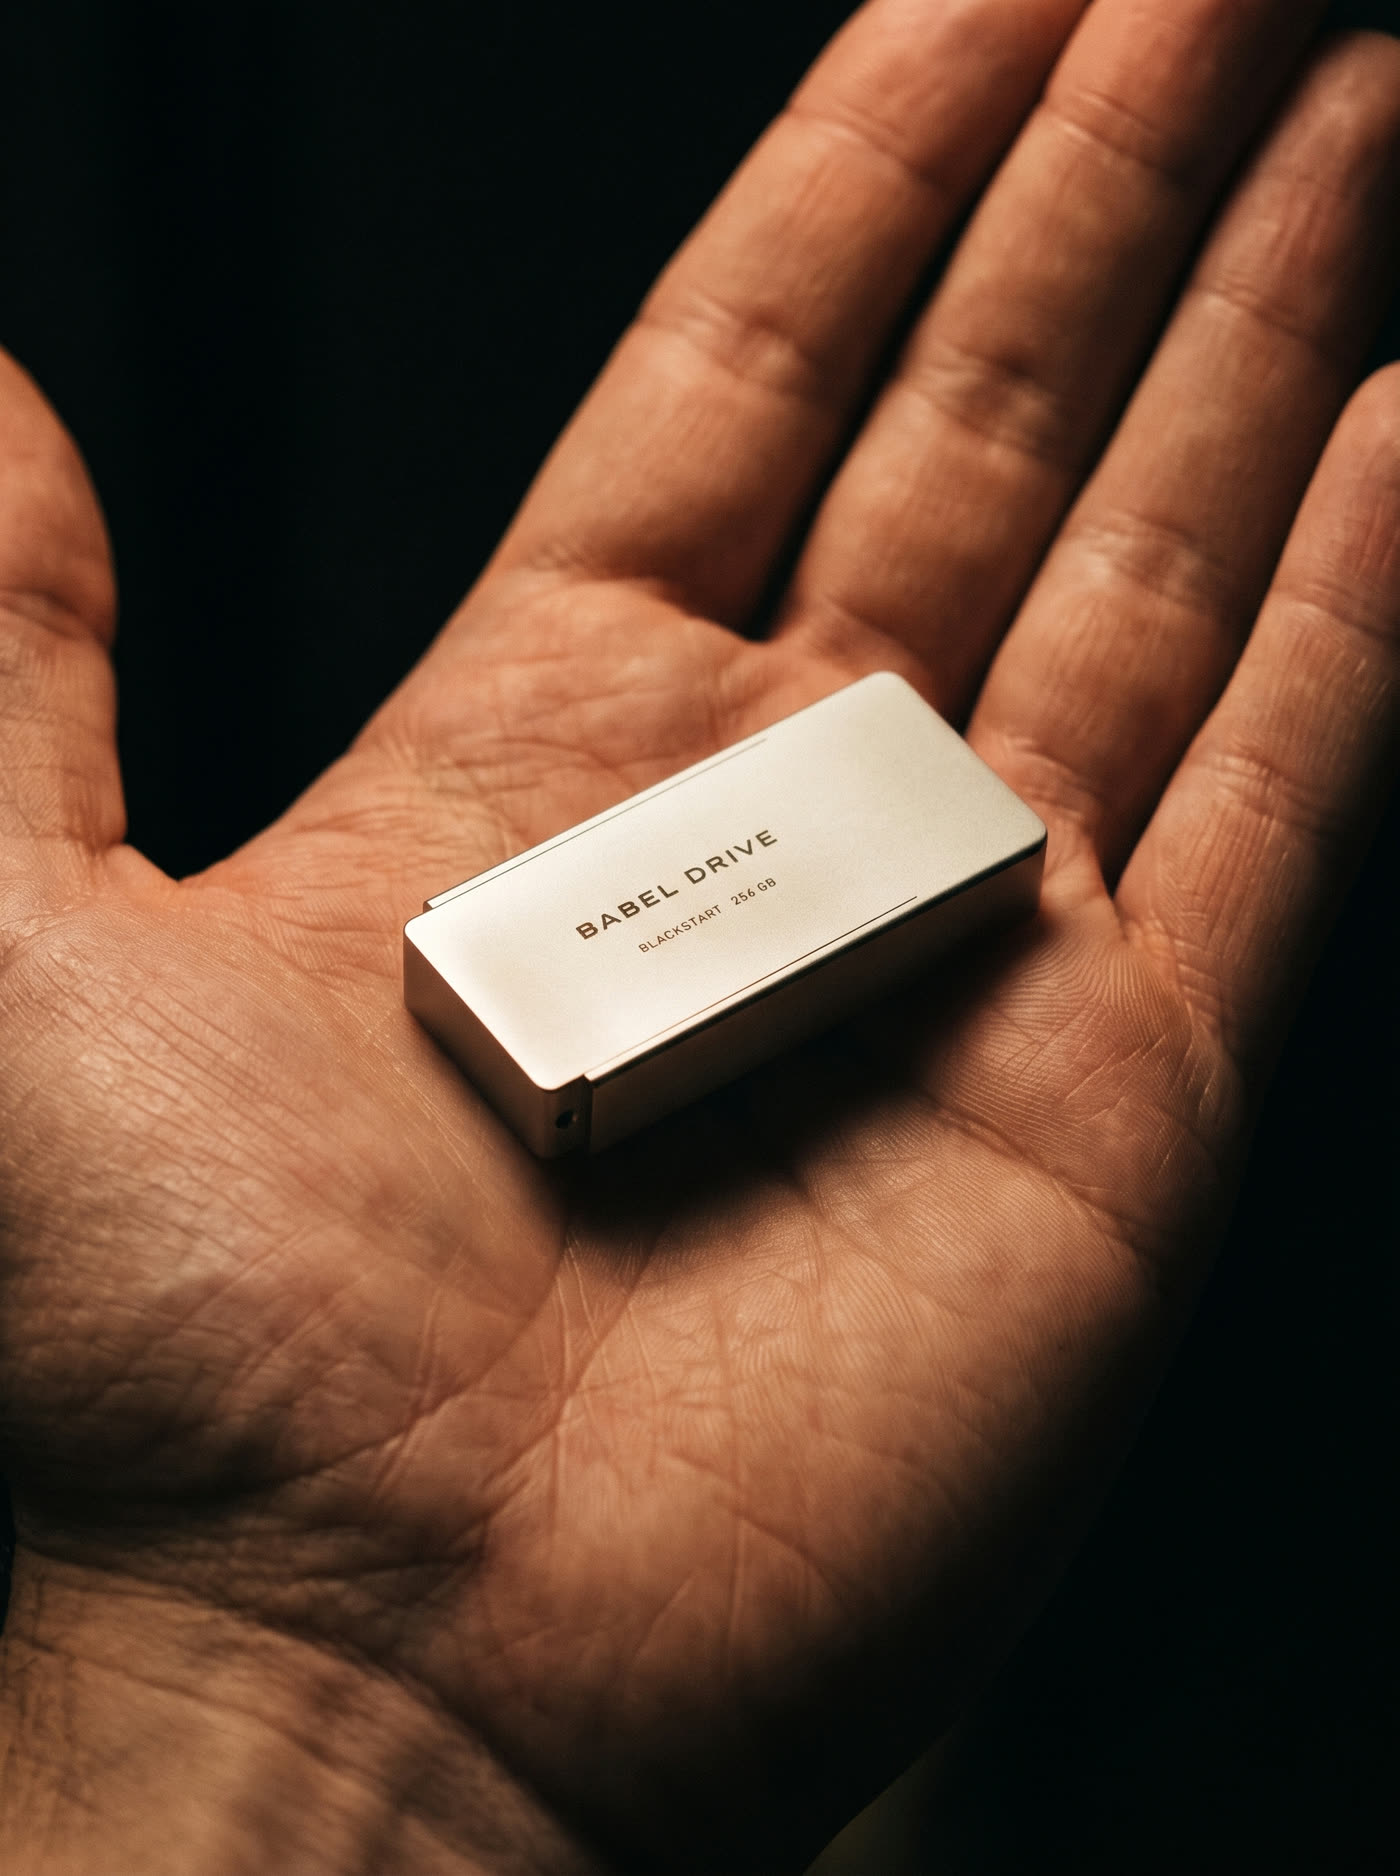
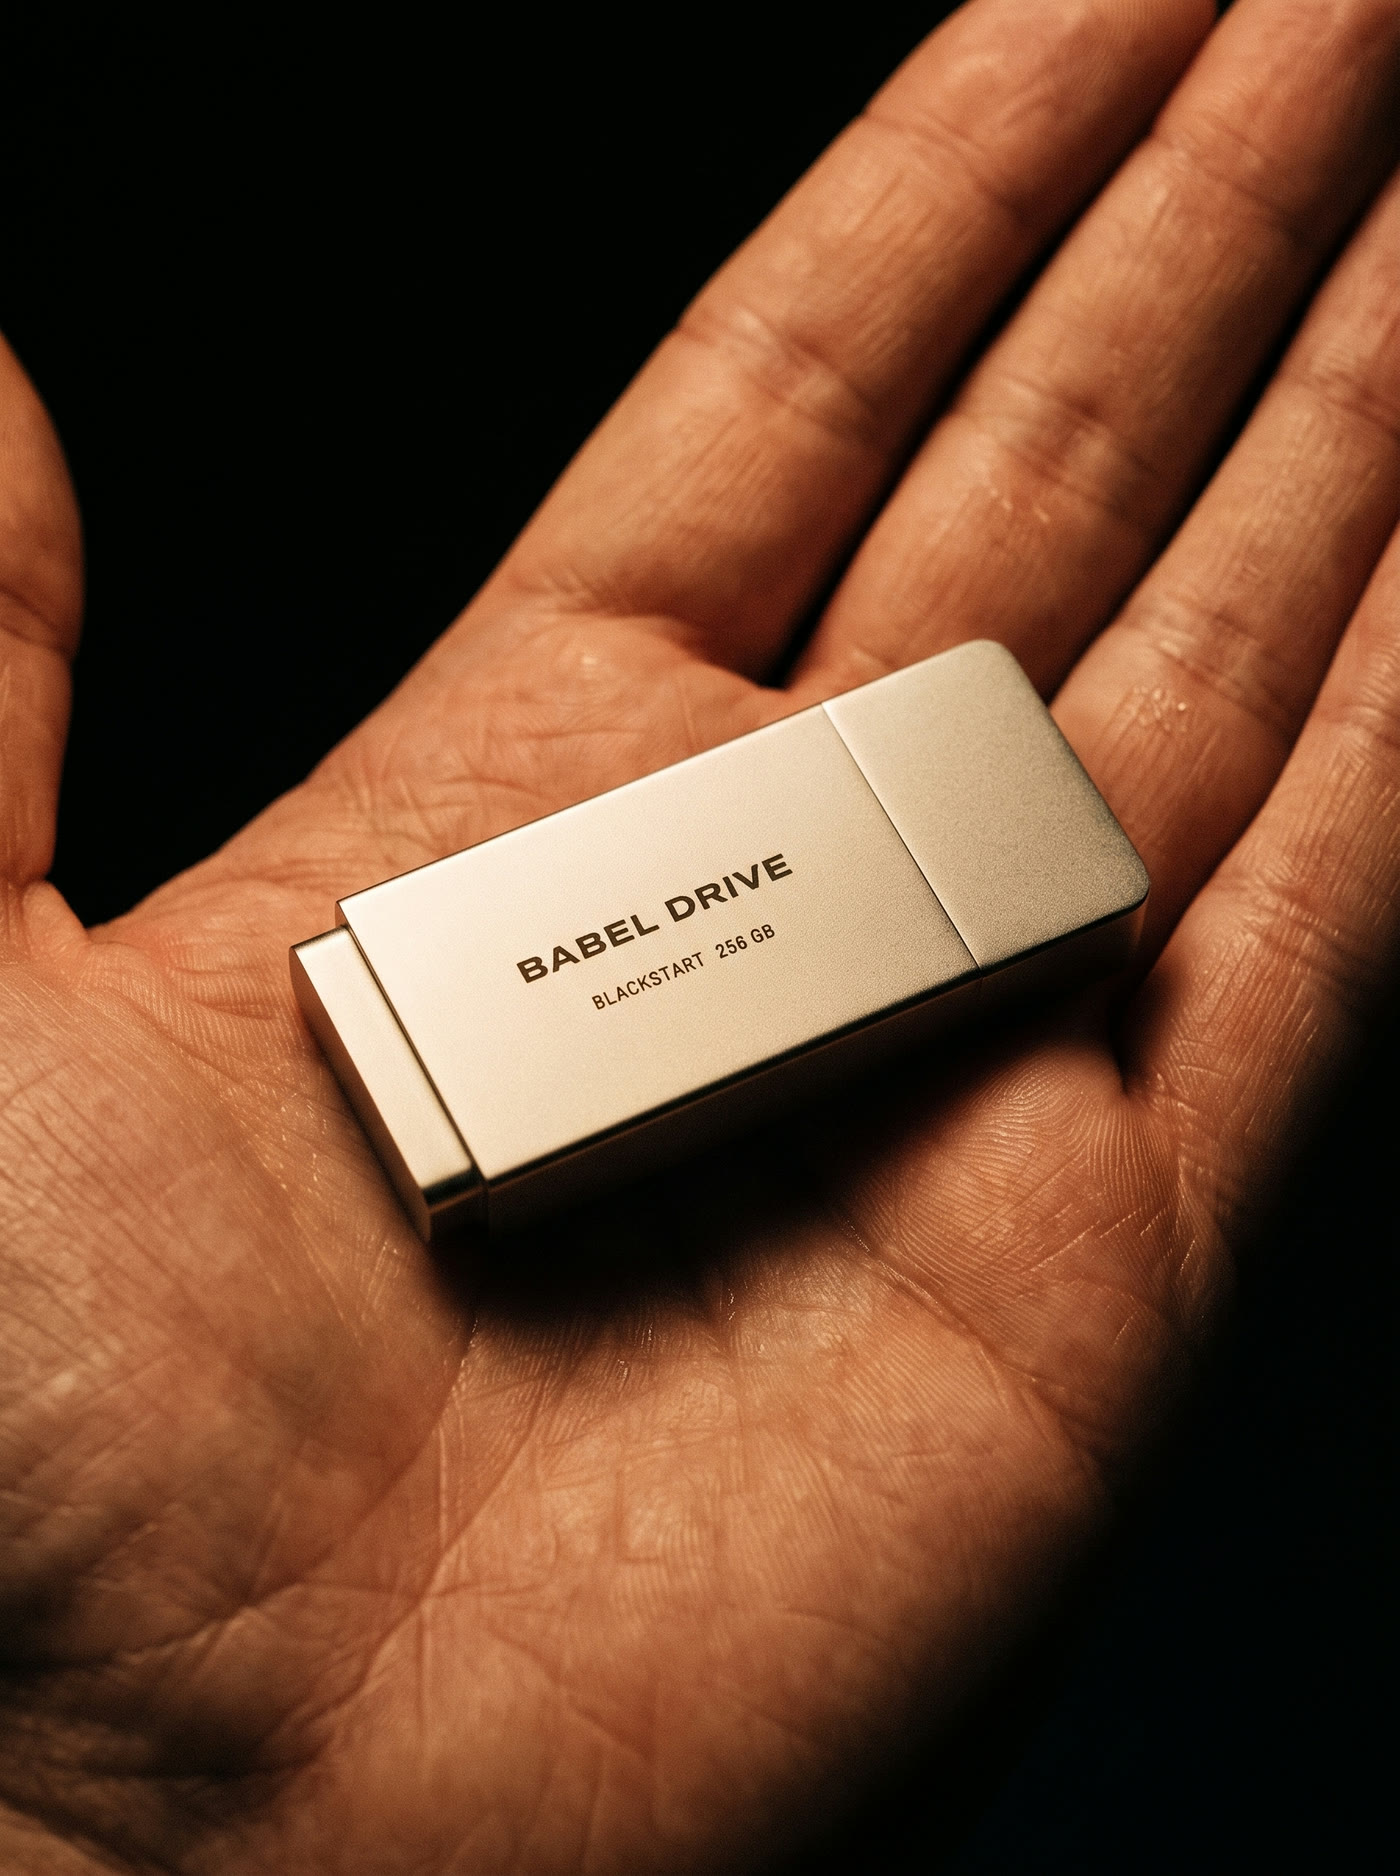
Deploy 2026-11-14 16:37

diff --git a/index.html b/index.html
@@ -611,11 +611,11 @@ footer .wrap{display:flex;flex-wrap:wrap;justify-content:space-between;gap:12px 
       <div class="reel-nav"><button type="button" id="rprev" aria-label="Previous photo"><svg width="16" height="16" viewBox="0 0 16 16" fill="none" stroke="currentColor" stroke-width="1.6"><path d="M10 3L5 8l5 5"/></svg></button><button type="button" id="rnext" aria-label="Next photo"><svg width="16" height="16" viewBox="0 0 16 16" fill="none" stroke="currentColor" stroke-width="1.6"><path d="M6 3l5 5-5 5"/></svg></button></div>
     </div>
     <div class="track" id="track" tabindex="0" aria-label="Photos of Blackstart, scroll sideways">
-      <figure class="card"><div class="ph"><img src="img/p/palm-900.jpg" srcset="img/p/palm-900.jpg 900w, img/p/palm-1400.jpg 1400w" sizes="(max-width: 699px) 78vw, 430px" width="1400" height="1875" decoding="async" alt="Blackstart resting in an open palm, about a third of the palm wide" draggable="false"></div><figcaption><b>44.7 × 20.4 × 9 mm, 55 g</b><span>01 / 05</span></figcaption></figure>
-      <figure class="card"><div class="ph"><img src="img/p/hold-900.jpg" srcset="img/p/hold-900.jpg 900w, img/p/hold-1400.jpg 1400w" sizes="(max-width: 699px) 78vw, 430px" width="1400" height="1875" decoding="async" alt="Blackstart held between thumb and finger against black" draggable="false"></div><figcaption><b>Solid 316L stainless</b><span>02 / 05</span></figcaption></figure>
-      <figure class="card"><div class="ph"><img src="img/p/lamp-900.jpg" srcset="img/p/lamp-900.jpg 900w, img/p/lamp-1400.jpg 1400w" sizes="(max-width: 699px) 78vw, 430px" width="1400" height="1875" loading="lazy" decoding="async" alt="Blackstart on a walnut desk under a warm lamp" draggable="false"></div><figcaption><b>Laser-marked cap</b><span>03 / 05</span></figcaption></figure>
-      <figure class="card"><div class="ph"><img src="img/p/cabin-900.jpg" srcset="img/p/cabin-900.jpg 900w, img/p/cabin-1400.jpg 1400w" sizes="(max-width: 699px) 78vw, 430px" width="1400" height="1875" loading="lazy" decoding="async" alt="Blackstart on a cabin windowsill with snow outside" draggable="false"></div><figcaption><b>One-piece cap and clip</b><span>04 / 05</span></figcaption></figure>
-      <figure class="card"><div class="ph"><img src="img/p/book-900.jpg" srcset="img/p/book-900.jpg 900w, img/p/book-1400.jpg 1400w" sizes="(max-width: 699px) 78vw, 430px" width="1400" height="1875" loading="lazy" decoding="async" alt="Blackstart on a desk beside a cloth-bound book" draggable="false"></div><figcaption><b>Bead-blasted finish</b><span>05 / 05</span></figcaption></figure>
+      <figure class="card"><div class="ph"><img src="img/p/palm-900.jpg?v=2" srcset="img/p/palm-900.jpg?v=2 900w, img/p/palm-1400.jpg?v=2 1400w" sizes="(max-width: 699px) 78vw, 430px" width="1400" height="1875" decoding="async" alt="Blackstart resting in an open palm" draggable="false"></div><figcaption><b>44.7 × 20.4 × 9 mm, 55 g</b><span>01 / 05</span></figcaption></figure>
+      <figure class="card"><div class="ph"><img src="img/p/hold-900.jpg?v=2" srcset="img/p/hold-900.jpg?v=2 900w, img/p/hold-1400.jpg?v=2 1400w" sizes="(max-width: 699px) 78vw, 430px" width="1400" height="1875" decoding="async" alt="Blackstart held between thumb and finger against black" draggable="false"></div><figcaption><b>Solid 316L stainless</b><span>02 / 05</span></figcaption></figure>
+      <figure class="card"><div class="ph"><img src="img/p/lamp-900.jpg?v=2" srcset="img/p/lamp-900.jpg?v=2 900w, img/p/lamp-1400.jpg?v=2 1400w" sizes="(max-width: 699px) 78vw, 430px" width="1400" height="1875" loading="lazy" decoding="async" alt="Blackstart on a walnut desk under a warm lamp" draggable="false"></div><figcaption><b>Laser-marked body</b><span>03 / 05</span></figcaption></figure>
+      <figure class="card"><div class="ph"><img src="img/p/cabin-900.jpg?v=2" srcset="img/p/cabin-900.jpg?v=2 900w, img/p/cabin-1400.jpg?v=2 1400w" sizes="(max-width: 699px) 78vw, 430px" width="1400" height="1875" loading="lazy" decoding="async" alt="Blackstart on a cabin windowsill with snow outside" draggable="false"></div><figcaption><b>Magnetic cap, fits either end</b><span>04 / 05</span></figcaption></figure>
+      <figure class="card"><div class="ph"><img src="img/p/book-900.jpg?v=2" srcset="img/p/book-900.jpg?v=2 900w, img/p/book-1400.jpg?v=2 1400w" sizes="(max-width: 699px) 78vw, 430px" width="1400" height="1875" loading="lazy" decoding="async" alt="Blackstart on a desk beside a cloth-bound book" draggable="false"></div><figcaption><b>Bead-blasted finish</b><span>05 / 05</span></figcaption></figure>
     </div>
     <div class="wrap"><div class="reel-bar"><i id="rbar"></i></div></div>
   </section>
@@ -705,7 +705,7 @@ footer .wrap{display:flex;flex-wrap:wrap;justify-content:space-between;gap:12px 
 
 
   <figure class="bleed inuse">
-    <img class="rise" src="img/desk-1600.jpg" srcset="img/desk-1000.jpg 1000w, img/desk-1600.jpg 1600w" sizes="100vw" width="1672" height="942" loading="lazy" decoding="async" alt="Blackstart plugged into a laptop, its cap on the back end">
+    <img class="rise" src="img/desk-1600.jpg?v=2" srcset="img/desk-1000.jpg?v=2 1000w, img/desk-1600.jpg?v=2 1600w" sizes="100vw" width="1672" height="942" loading="lazy" decoding="async" alt="Blackstart plugged into a laptop, its cap on the back end">
   </figure>
 
   <section class="sec" id="design" aria-labelledby="design-h">
